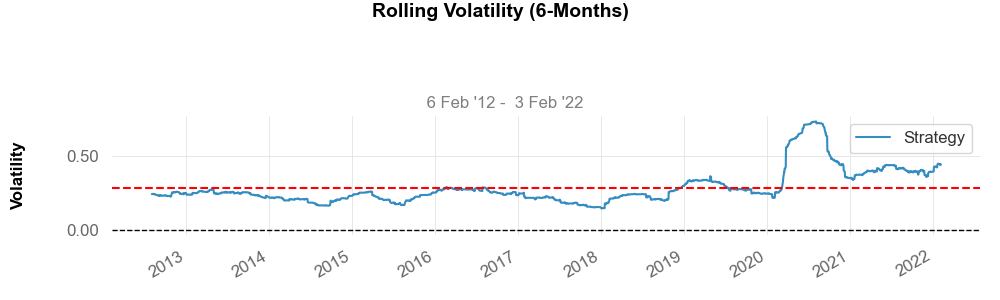
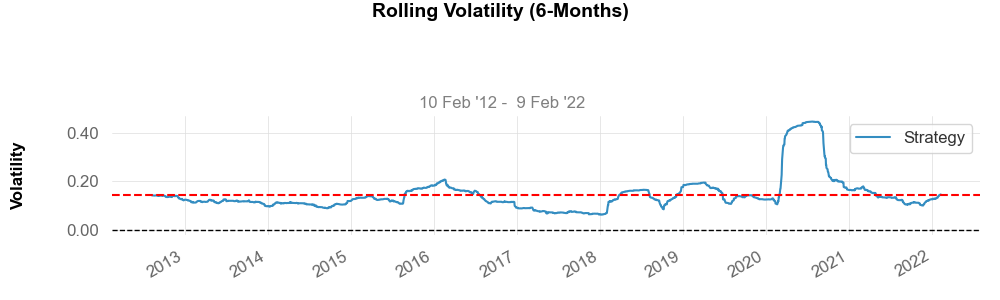
Merge remote-tracking branch 'github/master'

diff --git a/paginas/fronteira_eficiente.py b/paginas/fronteira_eficiente.py
@@ -104,7 +104,7 @@ def fronteira_eficiente():
     weights_list=[]
     tickers_list=[]
 
-    for i in tqdm(range(5000)):
+    for i in tqdm(range(10000)):
         next_i = False
         while True:
             #- Choose assets randomly without replacement
@@ -149,9 +149,9 @@ def fronteira_eficiente():
                              text=[str(np.array(tickers_list[i])) + "<br>" + str(np.array(weights_list[i]).round(2)) for
                                    i in range(len(tickers_list))]))
     fig.update_layout(template='plotly_white',
-                      xaxis=dict(title='Annualised Risk (Volatility)'),
-                      yaxis=dict(title='Annualised Return'),
-                      title='Sample of Random Portfolios',
+                      xaxis=dict(title='Risco Anualizado (Volatilidade)'),
+                      yaxis=dict(title='Retorno Anual'),
+                      title='Portifólios',
                       width=850,
                       height=500)
     # fig.update_xaxes(range=[0.18, 0.35])

diff --git a/paginas/relatorio_performance.py b/paginas/relatorio_performance.py
@@ -7,11 +7,11 @@ st.set_option('deprecation.showPyplotGlobalUse', False)
 def relatorio_performance():
 
     qs.extend_pandas()
-    ticker = st.sidebar.text_input('TICKER - Yahoo Finance', value='F')
+    ticker = st.sidebar.text_input('TICKER - Yahoo Finance', value='SPY')
     period = st.sidebar.text_input('5y, para 5 anos\
                                     1m, para 1 mês\
                                     1d para 1 dia',
-                                   value='1y'
+                                   value='10y'
                                    )
     returns = qs.utils.download_returns(ticker, period=period)
 #tentativa de plotagem dos gráficos
